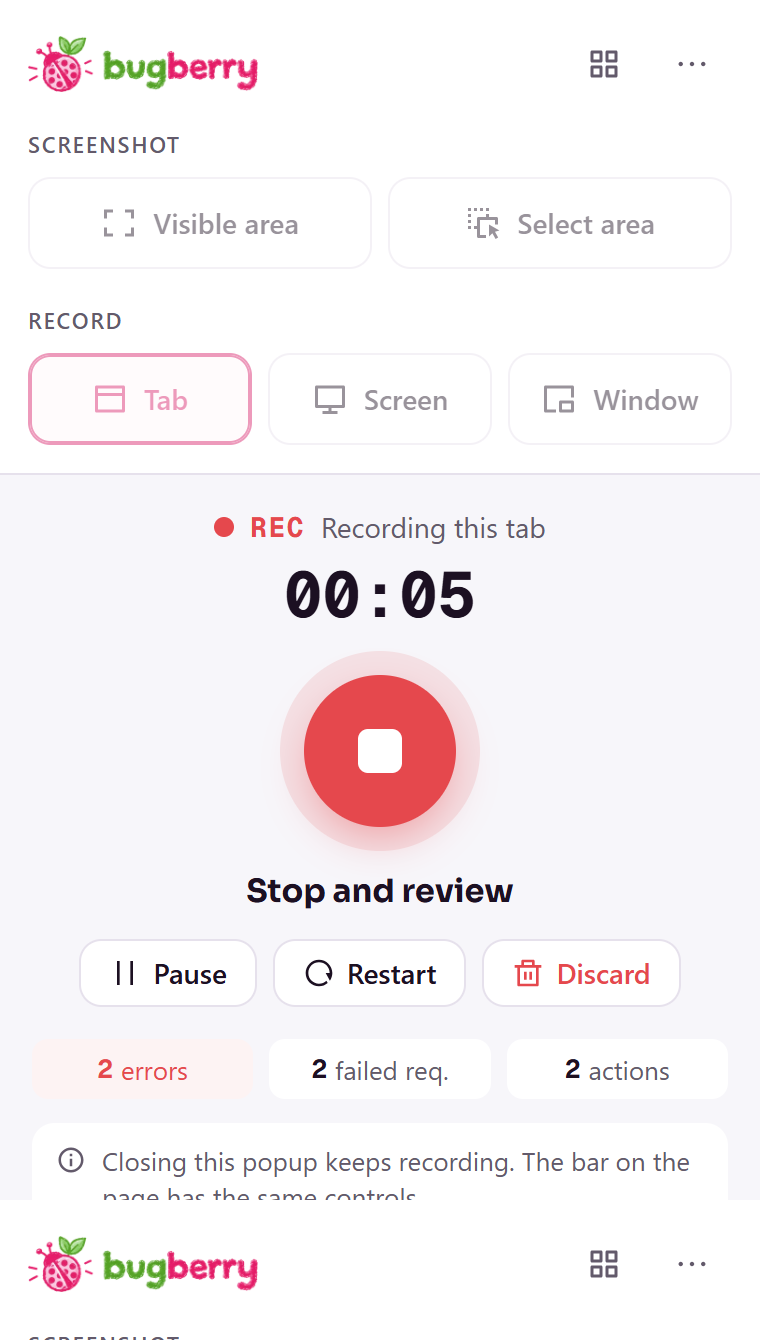
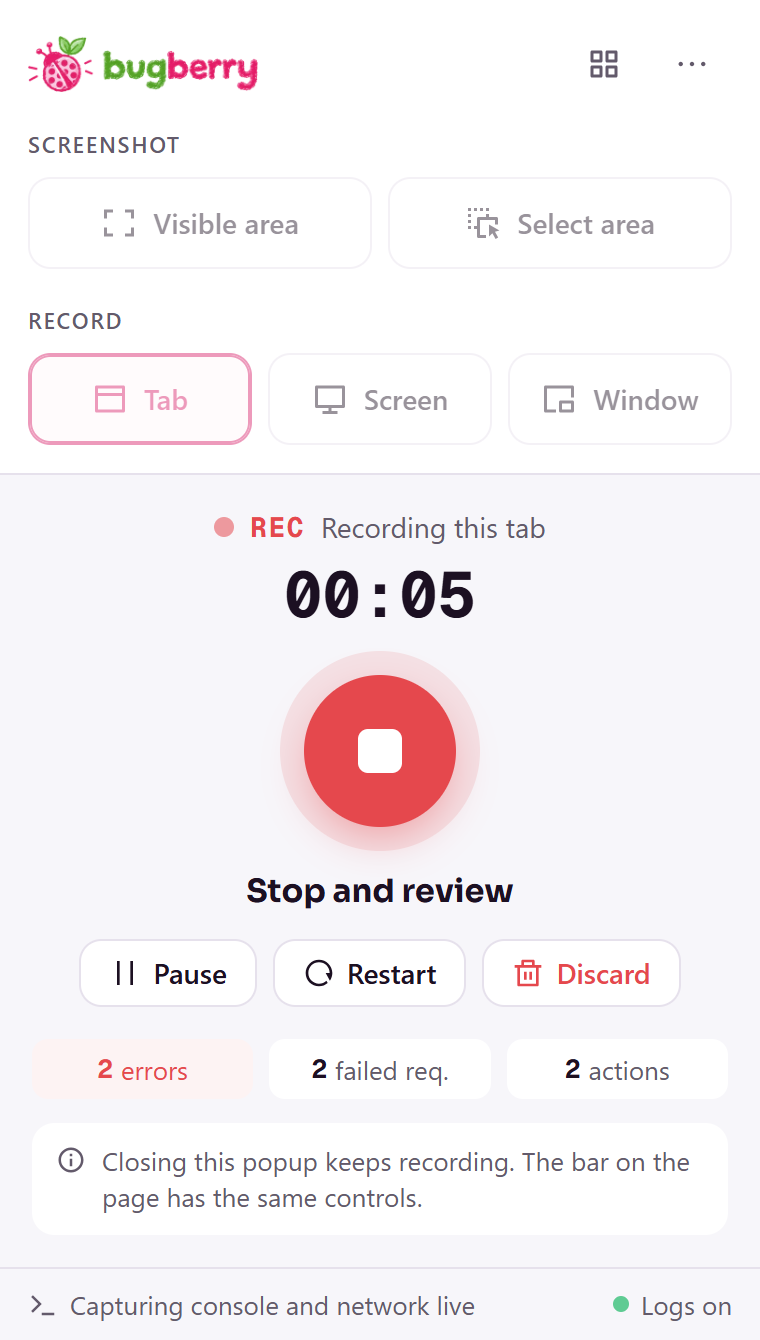
fix(docs): whole popup pictures, and the review's own access labels

diff --git a/apps/extension/docs-shots/harness.ts b/apps/extension/docs-shots/harness.ts
@@ -1,4 +1,4 @@
-import { mkdirSync, readFileSync } from "node:fs"
+import { mkdirSync, readFileSync, writeFileSync } from "node:fs"
 import { dirname } from "node:path"
 import { fileURLToPath } from "node:url"
 import { type BrowserContext, chromium, expect, type Frame, type Locator, type Page, type Worker } from "@playwright/test"
@@ -113,12 +113,49 @@ export async function shot(
   const common = { path, animations: "disabled", caret: "hide", scale: "device" } as const
   if ("goto" in target) {
     const popup = target.url().endsWith("/popup.html")
+    if (popup && !(await fitPopup(target))) {
+      // The real toolbar popup can't be resized, and Chrome caps its height: Chrome draws it past its window.
+      const box = await target.locator("main").first().boundingBox()
+      if (!box) throw new Error("No popup content")
+      const cdp = await target.context().newCDPSession(target)
+      const { data } = (await cdp.send("Page.captureScreenshot", {
+        format: "png",
+        captureBeyondViewport: true,
+        clip: { ...box, scale: 1 },
+      })) as { data: string }
+      writeFileSync(path, Buffer.from(data, "base64"))
+      return
+    }
     const clip = options.clip ?? (popup ? ((await target.locator("main").first().boundingBox()) ?? undefined) : undefined)
-    // The toolbar popup's window can be shorter than its content: the whole page, cut to the popup.
-    await target.screenshot({ ...common, clip, fullPage: popup })
+    // A popup taller than its window would be cut off: never picture it.
+    if (popup && clip) {
+      const height = await target.evaluate(() => window.innerHeight)
+      expect(clip.y + clip.height, "the popup is taller than its window").toBeLessThanOrEqual(height + 0.5)
+    }
+    await target.screenshot({ ...common, clip })
   } else {
     await target.screenshot(common)
   }
+}
+
+/**
+ * popup.html in a tab: its viewport becomes the popup's own size, at 2×, fitted until it settles (a new height can
+ * reflow it a little taller). False for the real toolbar popup, whose window can't be resized.
+ */
+async function fitPopup(page: Page): Promise<boolean> {
+  const cdp = await page.context().newCDPSession(page)
+  const bottom = () => page.evaluate(() => Math.ceil(document.querySelector("main")?.getBoundingClientRect().bottom ?? 600))
+  for (let height = await bottom(), tries = 0; tries < 4; tries++) {
+    const fitted = await cdp
+      .send("Emulation.setDeviceMetricsOverride", { width: 380, height, deviceScaleFactor: 2, mobile: false })
+      .then(() => true, () => false)
+    if (!fitted) return false
+    await page.waitForTimeout(300)
+    const next = await bottom()
+    if (next <= height) break
+    height = next
+  }
+  return true
 }
 
 /** The review over the shop, in an extension iframe inside a closed shadow root: found by its URL. */
